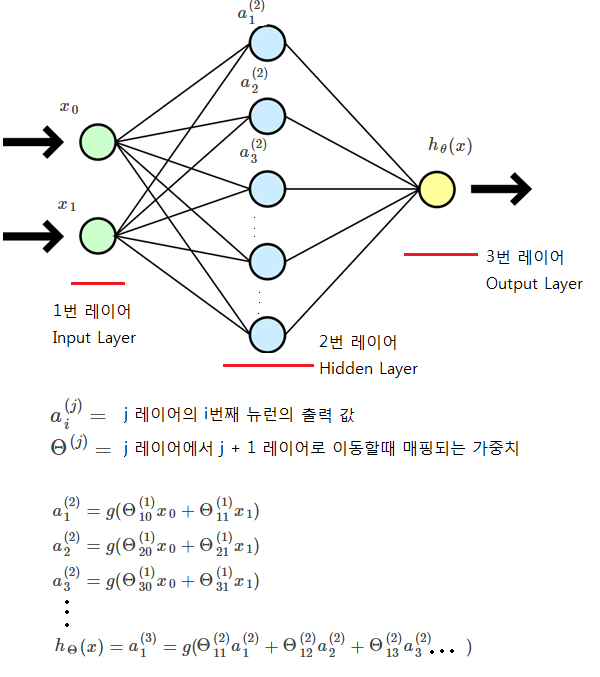
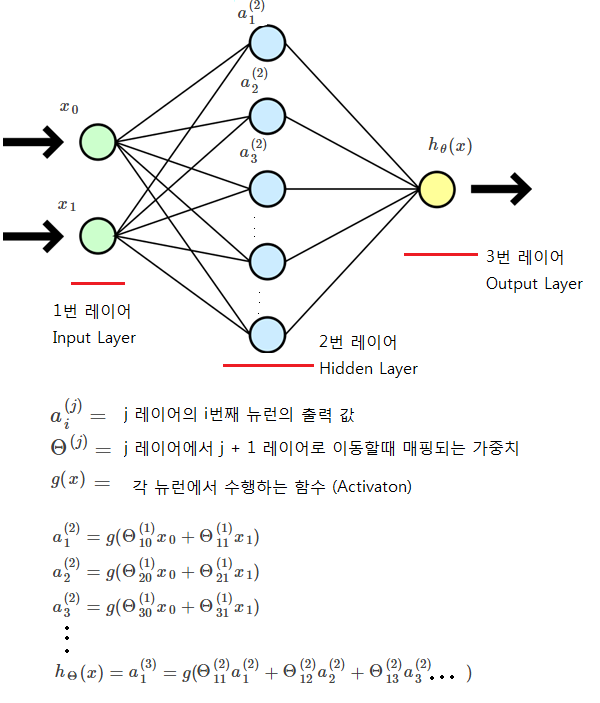
no message

diff --git a/_posts/2015-8-19-NeuralNetwork_on_MachineLearning.md b/_posts/2015-8-19-NeuralNetwork_on_MachineLearning.md
@@ -39,11 +39,11 @@ tags: [MachineLearning]
 
 * 뉴럴 네트워크의 동작  
 	* 각각의 동그라미는 하나의 뉴런을 의미 한다  
-	* 각각의 뉴런은 예측 함수(Hypothesis Function)를 통하여 출력 값을 만들어 낸다  
+	* 각각의 뉴런은 함수(Activation 이라 칭함)를 통하여 출력 값을 만들어 낸다  
 	* 초록색 뉴런은 입력을 받는다  
 	* 초록색 뉴런은 입력 값에 가중치를 곱하여 파란색 뉴런으로 데이터를 전달 한다  
-	* 파란색 뉴런은 입력 된 값들로 연산하여 노란색으로 데이터를 전달 한다  
-	* 노란색 뉴런은 입력 된 값들을 연산하여 결과 값을 출력한다  
+	* 파란색 뉴런은 입력 된 값들로 연산(Activation 수행)하여 노란색으로 데이터를 전달 한다  
+	* 노란색 뉴런은 입력 된 값들을 연산(Activation 수행)하여 결과 값을 출력한다  
 
 <br>  
 <img src="/assets/themes/Snail/img/MachineLearning/NeuralNetwork/neuralNetwork_sample.png" alt="">  
@@ -53,12 +53,19 @@ tags: [MachineLearning]
 #뉴럴 네트워크 예#  
 * AND 연산을 하는 뉴럴 네트워크  
 	* 0 또는 1을 입력으로 받는다  
-	* g(Χ)의 함수는 [시그모이드 함수](http://pigbrain.github.io/math/2015/07/10/SigmoidFunction_on_Math/)를 이용  
+	* g(Χ)의 함수(Activation)는 [시그모이드 함수](http://pigbrain.github.io/math/2015/07/10/SigmoidFunction_on_Math/)를 이용  
 <img src="/assets/themes/Snail/img/MachineLearning/NeuralNetwork/neuralNetwork_and.png" alt="">  
 <br>  
 
 #비용 함수(Cost Function)#
-  
+* Activation 함수로 [로지스틱 회귀](http://pigbrain.github.io/machinelearning/2015/07/25/LogisticRegression_on_MachineLearning/)를 사용할 경우 비용 함수는 다음과 같다  
+<img src="/assets/themes/Snail/img/MachineLearning/NeuralNetwork/costFunction.png" alt="">  
+<br>  
+	* L : 레이어의 총 개수  
+	* Sι : 레이어 l에서의 노드 개수 
+	* K : 출력 노드 개수
+
+
   
 #역 전파(Back Propagation)#
   
